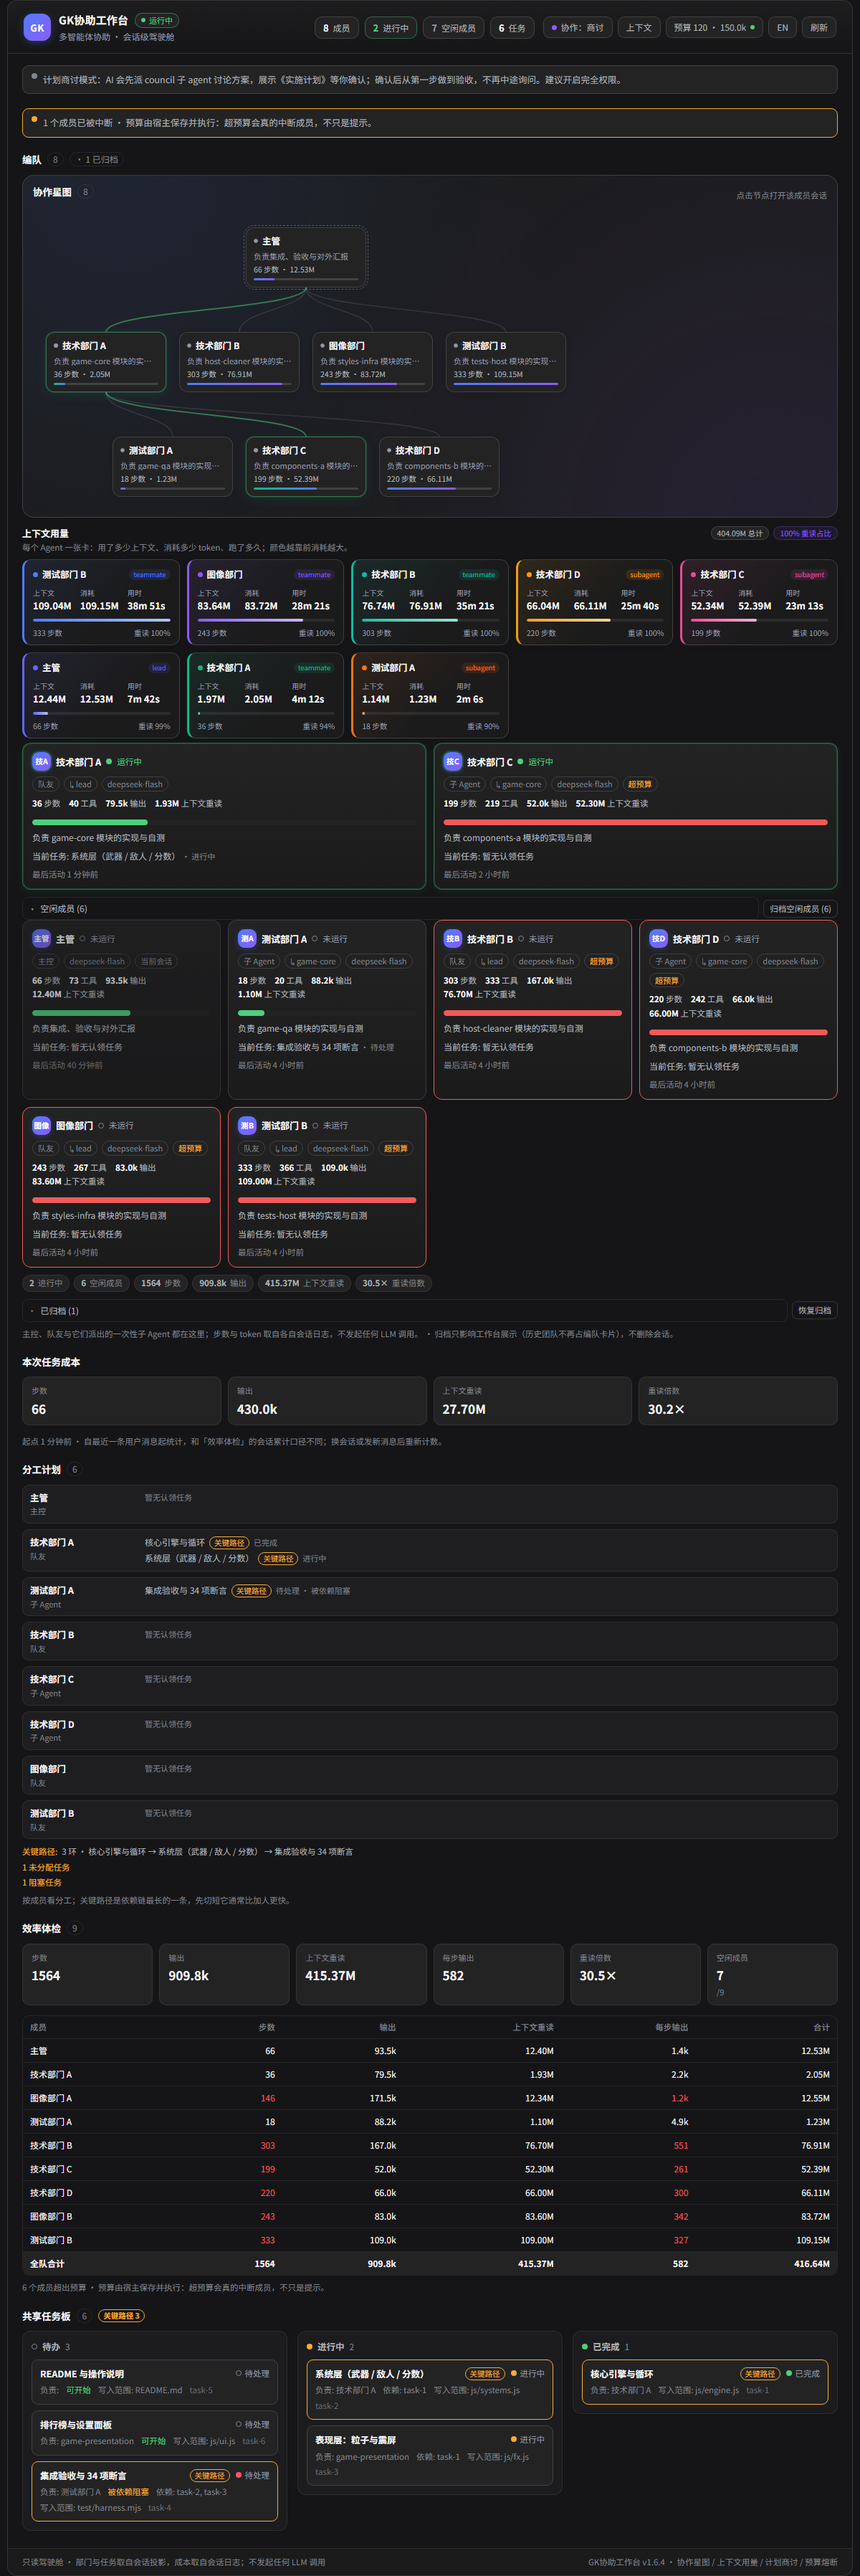
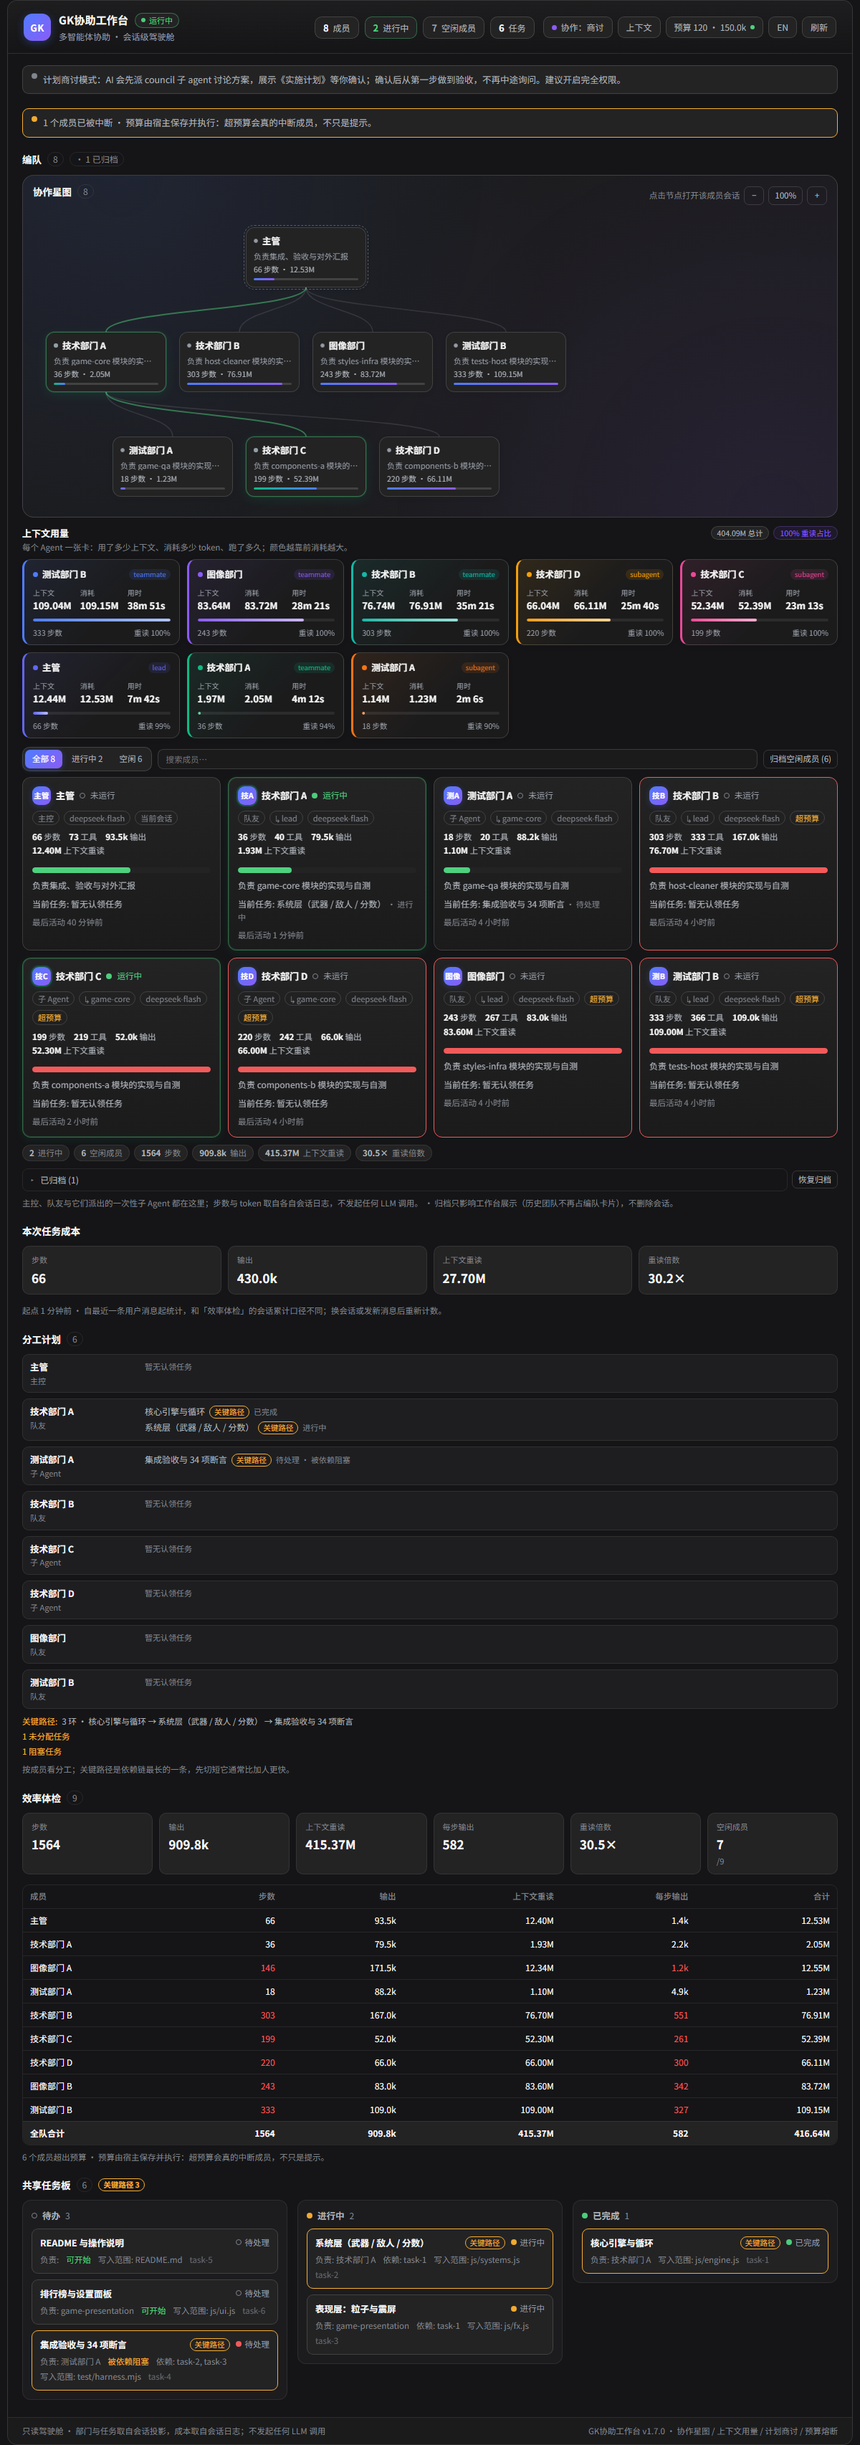
GK协助工作台 v1.7.0：编队筛选/搜索、星图缩放、界面动效

diff --git a/packages/dsh-agent-cockpit/client.js b/packages/dsh-agent-cockpit/client.js
@@ -251,6 +251,28 @@ window.__ModuleLoader__.load({
 .acp_ctxBar{height:4px;border-radius:999px;background:var(--dsw-alias-border-l1);overflow:hidden}
 .acp_ctxBar i{display:block;height:100%;border-radius:999px;background:linear-gradient(90deg,var(--ctx-accent,#4f7cff),color-mix(in srgb,var(--ctx-accent,#4f7cff) 45%,#fff))}
 .acp_ctxFoot{display:flex;align-items:center;justify-content:space-between;gap:8px;font-size:10.5px;color:var(--dsw-alias-label-tertiary)}
+.acp_filterBar{display:flex;align-items:center;gap:8px;flex-wrap:wrap;margin:12px 0 8px}
+.acp_filterTabs{display:flex;gap:3px;padding:3px;border:1px solid var(--dsw-alias-border-l2);border-radius:10px;background:var(--dsw-alias-bg-layer-2)}
+.acp_filterTab{padding:4px 10px;border:0;border-radius:7px;background:transparent;color:var(--dsw-alias-label-secondary);font:inherit;font-size:11.5px;cursor:pointer;transition:background .15s ease,color .15s ease,transform .12s ease}
+.acp_filterTab:hover{background:var(--dsw-alias-bg-layer-1);color:var(--dsw-alias-label-primary)}
+.acp_filterTabActive{background:linear-gradient(135deg,#4f7cff,#8b5cf6);color:#fff;box-shadow:0 2px 8px rgba(79,124,255,.28)}
+.acp_filterTab:active{transform:scale(.97)}
+.acp_filterSearch{flex:1 1 150px;min-width:130px;height:28px;padding:0 10px;border:1px solid var(--dsw-alias-border-l2);border-radius:8px;background:var(--dsw-alias-bg-layer-1);color:var(--dsw-alias-label-primary);font:inherit;font-size:11.5px;outline:none;transition:border-color .15s ease,box-shadow .15s ease}
+.acp_filterSearch:focus{border-color:#4f7cff;box-shadow:0 0 0 3px rgba(79,124,255,.16)}
+.acp_graphTools{display:flex;align-items:center;gap:6px;flex-wrap:wrap}
+.acp_graphTools .acp_miniAction{min-width:28px;justify-content:center;font-variant-numeric:tabular-nums}
+@keyframes acpFadeUp{from{opacity:0;transform:translateY(7px)}to{opacity:1;transform:translateY(0)}}
+@keyframes acpPop{from{opacity:0;transform:scale(.965)}to{opacity:1;transform:scale(1)}}
+@keyframes acpPulse{0%,100%{box-shadow:0 0 0 0 rgba(16,185,129,.35)}50%{box-shadow:0 0 0 5px rgba(16,185,129,0)}}
+@keyframes acpBarGrow{from{transform:scaleX(0)}to{transform:scaleX(1)}}
+.acp_card,.acp_ctxCard,.acp_graphNode{animation:acpFadeUp .34s cubic-bezier(.2,.8,.2,1) both}
+.acp_graphNodeRun .acp_graphDot{animation:acpPulse 1.8s ease-in-out infinite}
+.acp_bar i,.acp_ctxBar i,.acp_graphBar i{transform-origin:left center;animation:acpBarGrow .7s cubic-bezier(.2,.8,.2,1) both}
+.acp_doctorMask{animation:acpFadeUp .18s ease both}
+.acp_doctorCard{animation:acpPop .22s cubic-bezier(.2,.8,.2,1) both}
+.acp_action,.acp_miniAction,.acp_disclosure{transition:background .15s ease,border-color .15s ease,color .15s ease,transform .12s ease,box-shadow .15s ease}
+.acp_action:active,.acp_miniAction:active,.acp_disclosure:active{transform:scale(.97)}
+@media (prefers-reduced-motion: reduce){.acp_card,.acp_ctxCard,.acp_graphNode,.acp_doctorMask,.acp_doctorCard,.acp_bar i,.acp_ctxBar i,.acp_graphBar i,.acp_graphNodeRun .acp_graphDot{animation:none!important}.acp_action,.acp_miniAction,.acp_filterTab,.acp_filterSearch,.acp_graphNode{transition:none!important}}
 .acp_terrain{margin:12px 0 6px;padding:14px 16px 10px;border:1px solid var(--dsw-alias-border-l2);border-radius:16px;background:radial-gradient(circle at 85% 0%,rgba(139,92,246,.10),transparent 50%),var(--dsw-alias-bg-layer-1)}
 .acp_terrainHead{display:flex;align-items:flex-start;justify-content:space-between;gap:12px;flex-wrap:wrap}
 .acp_terrainTitle{font-size:13px;font-weight:650}
@@ -457,11 +479,19 @@ window.__ModuleLoader__.load({
       doctorClean: '未发现冲突',
       doctorResultFix: '已移除：',
       doctorResultOptout: '已从 profile 移除 GK协助工作台，重启后不再加载。',
+      filterAll: '全部',
+      filterRunning: '进行中',
+      filterIdle: '空闲',
+      searchMember: '搜索成员…',
+      noMemberMatch: '没有匹配的成员',
+      graphZoomIn: '放大星图',
+      graphZoomOut: '缩小星图',
+      graphZoomReset: '重置星图缩放',
       archiveIdle: '归档空闲成员',
       archivedGroup: '已归档',
       restoreArchived: '恢复归档',
       archivedHint: '归档只影响工作台展示（历史团队不再占编队卡片），不删除会话。',
-      versionNote: 'GK协助工作台 v1.6.4 · 协作星图 / 上下文用量 / 计划商讨 / 预算熔断',
+      versionNote: 'GK协助工作台 v1.7.0 · 协作星图 / 上下文用量 / 计划商讨 / 预算熔断',
     };
 
     const en = {
@@ -652,11 +682,19 @@ window.__ModuleLoader__.load({
       doctorClean: 'No conflicts found',
       doctorResultFix: 'Removed: ',
       doctorResultOptout: 'GK Workbench was removed from the profile; it will stop loading after a restart.',
+      filterAll: 'All',
+      filterRunning: 'Running',
+      filterIdle: 'Idle',
+      searchMember: 'Search members…',
+      noMemberMatch: 'No matching members',
+      graphZoomIn: 'Zoom in',
+      graphZoomOut: 'Zoom out',
+      graphZoomReset: 'Reset zoom',
       archiveIdle: 'Archive idle',
       archivedGroup: 'Archived',
       restoreArchived: 'Restore',
       archivedHint: 'Archiving only hides cards here (old teams stop occupying the fleet); sessions are not deleted.',
-      versionNote: 'GK Workbench v1.6.4 · collaboration map / context usage / council preset',
+      versionNote: 'GK Workbench v1.7.0 · collaboration map / context usage / council preset',
     };
 
     /* ── small shared helpers ───────────────────────────────────────────── */
@@ -1245,6 +1283,7 @@ window.__ModuleLoader__.load({
           key: String(x.row.id),
           style: {
             '--ctx-accent': accent,
+            animationDelay: String(index * 30) + 'ms',
             background: 'linear-gradient(135deg, ' + accent + '18, transparent 58%), var(--dsw-alias-bg-layer-1)',
           },
         }, [
@@ -1292,6 +1331,9 @@ window.__ModuleLoader__.load({
     function AgentGraph(props) {
       const t = props.t;
       const rows = Array.isArray(props.rows) ? props.rows : [];
+      const zoomRef = React.useState(1);
+      const zoom = zoomRef[0];
+      const setZoom = zoomRef[1];
       if (rows.length === 0) return null;
       const W = 168;
       const H = 84;
@@ -1349,7 +1391,7 @@ window.__ModuleLoader__.load({
           className: 'acp_edge' + (isRunningRow(r) ? ' acp_edgeRun' : ''),
         }));
       });
-      const nodes = rows.map((r) => {
+      const nodes = rows.map((r, index) => {
         const p = pos.get(String(r.id));
         const u = r.usage || {};
         const steps = Number(u.steps) || 0;
@@ -1360,7 +1402,7 @@ window.__ModuleLoader__.load({
           type: 'button',
           key: 'n:' + r.id,
           className: 'acp_graphNode' + (isRunningRow(r) ? ' acp_graphNodeRun' : '') + (r.current ? ' acp_graphNodeCurrent' : ''),
-          style: { left: p.x + 'px', top: p.y + 'px', width: W + 'px', height: H + 'px' },
+          style: { left: p.x + 'px', top: p.y + 'px', width: W + 'px', height: H + 'px', animationDelay: String(index * 35) + 'ms' },
           onClick: () => props.openMember(props.sessionId, r.id),
           title: t('open'),
         }, [
@@ -1379,9 +1421,14 @@ window.__ModuleLoader__.load({
             h('span', { key: 't' }, t('graphTitle')),
             h('span', { className: 'acp_count', key: 'c' }, String(rows.length)),
           ]),
-          h('span', { className: 'acp_hint', key: 'hint', style: { margin: 0 } }, t('graphHint')),
+          h('div', { className: 'acp_graphTools', key: 'tools' }, [
+            h('span', { className: 'acp_hint', key: 'hint', style: { margin: 0 } }, t('graphHint')),
+            h('button', { type: 'button', className: 'acp_miniAction', key: 'out', title: t('graphZoomOut'), onClick: () => { if (typeof setZoom === 'function') setZoom(Math.max(0.6, Math.round((zoom - 0.2) * 10) / 10)); } }, '−'),
+            h('button', { type: 'button', className: 'acp_miniAction', key: 'reset', title: t('graphZoomReset'), onClick: () => { if (typeof setZoom === 'function') setZoom(1); } }, String(Math.round(zoom * 100)) + '%'),
+            h('button', { type: 'button', className: 'acp_miniAction', key: 'in', title: t('graphZoomIn'), onClick: () => { if (typeof setZoom === 'function') setZoom(Math.min(1.6, Math.round((zoom + 0.2) * 10) / 10)); } }, '+'),
+          ]),
         ]),
-        h('div', { className: 'acp_graphCanvas', key: 'canvas', style: { width: width + 'px', height: height + 'px' } }, [
+        h('div', { className: 'acp_graphCanvas', key: 'canvas', style: { width: width + 'px', height: height + 'px', zoom } }, [
           h('svg', { key: 'svg', className: 'acp_graphSvg', width: width, height: height, viewBox: '0 0 ' + width + ' ' + height }, edges),
           ...nodes,
         ]),
@@ -1441,6 +1488,12 @@ window.__ModuleLoader__.load({
       const hasFamilyRows = rows.length > 0;
       const count = hasFamilyRows ? visibleRows.length : members.length;
       const canArchive = typeof props.onArchive === 'function' && idle.length > 0;
+      const memberFilterRef = React.useState('all');
+      const memberFilter = memberFilterRef[0];
+      const setMemberFilter = memberFilterRef[1];
+      const memberQueryRef = React.useState('');
+      const memberQuery = memberQueryRef[0];
+      const setMemberQuery = memberQueryRef[1];
       const deptNames = departmentNames(visibleRows);
       const displayNameOf = (row) => deptNames.get(String(row.id)) || String(row.name);
 
@@ -1478,33 +1531,48 @@ window.__ModuleLoader__.load({
           openMember: props.openMember,
         }));
         body.push(h(ContextCards, { key: 'context-cards', rows: visibleRows, t, displayName: displayNameOf }));
-        if (active.length > 0) {
-          body.push(h('div', { className: 'acp_grid', key: 'active' }, active.map(card)));
-        }
-        if (idle.length > 0) {
-          body.push(h('div', { className: 'acp_idleGroup', key: 'idle' }, [
-            h('div', { className: 'acp_disclosureRow', key: 'row' }, [
-              h('button', {
-                type: 'button',
-                className: 'acp_disclosure',
-                key: 'toggle',
-                onClick: () => { if (typeof setExpanded === 'function') setExpanded(!expanded); },
-              }, [
-                h('span', { className: 'acp_disclosureCaret', key: 'caret' }, expanded ? '▾' : '▸'),
-                h('span', { key: 'label' }, t('statusIdleGroup') + ' (' + String(idle.length) + ')'),
-              ]),
-              canArchive ? h('div', { className: 'acp_disclosureActions', key: 'actions' }, [
-                h('button', {
-                  type: 'button',
-                  className: 'acp_miniAction',
-                  key: 'archive',
-                  onClick: () => props.onArchive(idle.map((row) => String(row.id))),
-                }, t('archiveIdle') + ' (' + String(idle.length) + ')'),
-              ]) : null,
-            ].filter(Boolean)),
-            expanded
-              ? h('div', { className: 'acp_grid', key: 'grid', style: { marginTop: 8 } }, idle.map(card))
-              : null,
+        const query = String(memberQuery || '').trim().toLowerCase();
+        const filteredRows = visibleRows.filter((row) => {
+          if (memberFilter === 'running' && !isRunningRow(row)) return false;
+          if (memberFilter === 'idle' && isRunningRow(row)) return false;
+          if (query !== '') {
+            const hay = (String(row.name || '') + ' ' + String(row.description || '')).toLowerCase();
+            if (hay.indexOf(query) < 0) return false;
+          }
+          return true;
+        });
+        body.push(h('div', { className: 'acp_filterBar', key: 'filters' }, [
+          h('div', { className: 'acp_filterTabs', key: 'tabs' }, [
+            [['all', t('filterAll'), visibleRows.length],
+              ['running', t('filterRunning'), active.length],
+              ['idle', t('filterIdle'), idle.length]].map(([key, label, n]) => h('button', {
+              type: 'button',
+              key,
+              className: 'acp_filterTab' + (memberFilter === key ? ' acp_filterTabActive' : ''),
+              onClick: () => { if (typeof setMemberFilter === 'function') setMemberFilter(key); },
+            }, String(label) + ' ' + String(n))),
+          ]),
+          h('input', {
+            className: 'acp_filterSearch',
+            key: 'search',
+            type: 'search',
+            value: memberQuery,
+            placeholder: t('searchMember'),
+            onChange: (event) => { if (typeof setMemberQuery === 'function') setMemberQuery(event && event.target ? event.target.value : ''); },
+          }),
+          canArchive ? h('button', {
+            type: 'button',
+            className: 'acp_miniAction',
+            key: 'archive',
+            onClick: () => props.onArchive(idle.map((row) => String(row.id))),
+          }, t('archiveIdle') + ' (' + String(idle.length) + ')') : null,
+        ].filter(Boolean)));
+        if (filteredRows.length > 0) {
+          body.push(h('div', { className: 'acp_grid', key: 'members' }, filteredRows.map(card)));
+        } else {
+          body.push(h('div', { className: 'acp_notice', key: 'noMatch', role: 'status' }, [
+            h('span', { className: 'acp_dot acp_dotIdle', key: 'dot' }),
+            h('span', { key: 'text' }, t('noMemberMatch')),
           ]));
         }
         const ratio = snap.data && typeof snap.data.ratio === 'number' ? snap.data.ratio : 0;

diff --git a/packages/dsh-agent-cockpit/host/coordination.js b/packages/dsh-agent-cockpit/host/coordination.js
@@ -335,7 +335,7 @@ export function createCoordinator(ctx) {
     },
     debugInfo() {
       return {
-        version: '1.6.4',
+        version: '1.7.0',
         started,
         guardInstalled,
         promptInstalled,

diff --git a/packages/dsh-agent-cockpit/CHANGELOG.md b/packages/dsh-agent-cockpit/CHANGELOG.md
@@ -1,5 +1,12 @@
 # Changelog
 
+## 1.7.0 (2026-11-05)
+
+- 编队新增 All / Running / Idle 过滤与成员搜索，归档入口移到过滤条。
+- 协作星图新增缩放（− / 百分比 / +，60%–160%）。
+- 界面动效：卡片/节点淡入、进度条生长、运行态脉冲、弹窗缩放、按钮按压反馈；支持 prefers-reduced-motion。
+- 英文界面回归冒烟（上下文用量 / 协作星图 / 筛选标签）。
+
 ## 1.6.4 (2026-11-05)
 
 - 修复英文界面残留中文：星图步数、上下文卡步数/总计等硬编码文案改用字典。
